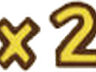
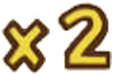
上級能力に見出しとアイコンを付け、記号表を揃える
- 上級ゲームのバッジを、能力名を主・(上級) を従とした見出しに変更し、
  右端に上級能力のアイコンを置いた（11種＋代官・獣を従える）
- 上級アイコン11点は Dized の記号画像から用意。ポーンの職能記号
  （農民=羊 / 錬金術師=歯車 / 商人=眼鏡 / 騎士=斧 / 貴族=王冠 / 修道士=十字）と
  費用記号から対応を確定した
- リファレンス11章のカード記号表を §8.5 と同じ1行1記号の形に
- ×2 の記号が共通キャンバスからはみ出して切れていたのを修正
- §9 の冒頭に11アクションへの目次リンクを追加

あわせて見つけた不具合:
- 空行をはさんだ隣り合う引用が1つに融合していた（「注」と「神速」など3箇所）
- 「地形の整備」「獣を従える」の見出しが二重になっていた
- 生HTMLの許可タグに nav がなかった

diff --git a/scripts/site_assets/site.css b/scripts/site_assets/site.css
@@ -173,11 +173,11 @@ tbody tr:hover td{background:color-mix(in srgb,var(--gold) 5%,transparent)}
 .callout p{margin:.4em 0}
 .callout .tablewrap{margin:.6em 0}
 .callout.adv{border-left-color:var(--gold)}
-.callout.adv::before{
-  content:"上級ゲーム";display:inline-block;margin-bottom:.5em;
-  font-family:var(--sans);font-size:10.5px;letter-spacing:.12em;
-  background:var(--gold);color:#fff;padding:1px 8px;border-radius:3px;
-}
+.adv-head{display:flex;align-items:center;gap:8px;margin:0 0 .5em;flex-wrap:wrap}
+.adv-name{font-family:var(--sans);font-size:15px;font-weight:700;color:var(--gold)}
+.adv-tag{font-family:var(--sans);font-size:11px;color:var(--ink-3);letter-spacing:.06em}
+.adv-en{font-family:var(--sans);font-size:11.5px;color:var(--ink-3);font-style:italic}
+.adv-ic{margin-left:auto;height:38px;width:auto;max-width:130px;border:0;background:none}
 .callout.trivia{border-left-color:#8fa07d}
 
 /* ---------- figures ---------- */
@@ -285,6 +285,22 @@ tbody tr:hover td{background:color-mix(in srgb,var(--gold) 5%,transparent)}
 .blk-steps>.cell strong{display:block;font-family:var(--sans);font-size:14.5px;margin-bottom:1px}
 .blk-steps>.cell p{margin:0}
 .blk-steps>.cell p+p{margin-top:.3em;color:var(--ink-2)}
+
+/* ---------- アクションの目次リンク（::: 章の先頭） ---------- */
+.actionnav{display:flex;flex-wrap:wrap;gap:6px;margin:1em 0 1.8em}
+.actionnav a{
+  display:inline-flex;align-items:center;gap:6px;
+  padding:5px 11px 5px 7px;border:1px solid var(--line);border-radius:999px;
+  background:var(--card);font-family:var(--sans);font-size:13px;
+  color:var(--ink);text-decoration:none;
+}
+.actionnav a:hover{border-color:var(--gold);color:var(--gold)}
+.an-n{
+  display:inline-flex;align-items:center;justify-content:center;
+  min-width:18px;height:18px;border-radius:50%;background:var(--panel);
+  font-size:11px;font-weight:700;color:var(--ink-3);
+}
+.actionnav a:hover .an-n{background:var(--gold);color:#fff}
 
 /* ---------- 行中の小さな画像（表のセルの記号など） ---------- */
 img.ic{height:22px;width:auto;vertical-align:-6px;border:0;border-radius:0;

diff --git a/scripts/mdbook.py b/scripts/mdbook.py
@@ -26,6 +26,39 @@ def inline(s):
     s = s.replace("\x00AST\x00", "*")
     return s
 
+_ADV = re.compile(
+    r'^\s*(?:!\[[^\]]*\]\((?P<img>[^)]+)\)\s*)?'
+    r'\*\*(?P<label>[^*]+?)\*\*\s*(?:（上級ゲーム）)?\s*(?:[—–-]\s*)?')
+
+
+def adv_head(md):
+    """上級能力の引用ブロックから、先頭の能力名とアイコンを見出しへ切り出す。
+
+    「**「遠い親戚」（"Distant Kin"）（上級ゲーム）** — 本文…」のような書き方を、
+    左上に能力名、その横に控えめな (上級) と原語、右にアイコン、という形にする。
+    戻り値は (見出しを取り除いた本文, 見出しHTML)。
+    """
+    m = _ADV.match(md)
+    if not m:
+        return md, ""
+    label = m.group("label").replace("（上級ゲーム）", "").strip()
+    en = ""
+    mm = re.search(r"（\s*[\"“]?(.+?)[\"”]?\s*）\s*$", label)
+    if mm:
+        en = mm.group(1).strip()
+        label = label[:mm.start()].strip()
+    name = label.strip("「」").strip()
+    if not name:
+        return md, ""
+    parts = ['<span class="adv-name">%s</span>' % html.escape(name),
+             '<span class="adv-tag">(上級)</span>']
+    if en:
+        parts.append('<span class="adv-en">%s</span>' % html.escape(en))
+    if m.group("img"):
+        parts.append(_inline_img("", m.group("img")).replace('class="ic"', 'class="adv-ic"'))
+    return md[m.end():], '<div class="adv-head">%s</div>' % "".join(parts)
+
+
 def slug(t):
     t = re.sub(r"<[^>]+>", "", t)
     t = re.sub(r"[*`]", "", t).strip().lower()
@@ -81,22 +114,23 @@ def convert(md, heading_shift=0, collect=None):
 
         # blockquote
         if ln.lstrip().startswith(">"):
+            # 空行は引用の終わり。段落を分けたいときは「>」だけの行を置く。
+            # （空行をまたいで continue すると、隣り合う別々の引用が1つに融合してしまう）
             buf = []
-            while i < len(lines) and (lines[i].lstrip().startswith(">") or
-                                      (lines[i].strip() == "" and
-                                       i + 1 < len(lines) and lines[i + 1].lstrip().startswith(">"))):
-                if lines[i].strip() == "":
-                    buf.append("")
-                else:
-                    buf.append(re.sub(r"^\s*>\s?", "", lines[i]))
+            while i < len(lines) and lines[i].lstrip().startswith(">"):
+                buf.append(re.sub(r"^\s*>\s?", "", lines[i]))
                 i += 1
-            inner = convert("\n".join(buf), heading_shift)
             cls = "callout"
             joined = "\n".join(buf)
+            head = ""
             if re.search(r"（上級ゲーム）|（Reeves）|上級ゲーム", joined):
                 cls = "callout adv"
-                # 見出しバッジで示すので本文中の「（上級ゲーム）」は削る
+                joined, head = adv_head(joined)
+            inner = convert(joined, heading_shift)
+            if cls == "callout adv":
+                # 見出しに出すので本文中の「（上級ゲーム）」は削る
                 inner = inner.replace("（上級ゲーム）", "")
+                inner = head + inner
             elif re.search(r"^\s*豆知識", joined):
                 cls = "callout trivia"
             elif re.search(r"\*\*注:|\*\*重要:|\*\*ヒント:|\*\*表に関する注:", joined):
@@ -162,7 +196,7 @@ def convert(md, heading_shift=0, collect=None):
             continue
 
         # 生HTMLブロック（行頭が < のブロック要素）
-        m = re.match(r"^<(div|section|figure|table|details|aside|svg|dl|blockquote|p|pre|ul|ol|h[1-6])\b", ln)
+        m = re.match(r"^<(div|section|nav|figure|table|details|aside|svg|dl|blockquote|p|pre|ul|ol|h[1-6])\b", ln)
         if m:
             tag = m.group(1)
             buf = [ln]; i += 1
@@ -302,12 +336,13 @@ tbody tr:nth-child(even) td{background:#fbf8f1}
 }
 .callout p{margin:.3em 0}
 .callout.adv{background:var(--adv);border-left-color:var(--gold)}
-.callout.adv::before{
-  content:"上級ゲーム"; display:inline-block; margin:0 0 .35em;
-  font-family:"Hiragino Sans","Yu Gothic",sans-serif; font-size:7.6pt;
-  letter-spacing:.12em; color:#fff; background:var(--gold);
-  padding:.12em .6em; border-radius:2px;
-}
+.adv-head{display:flex;align-items:center;gap:.5em;margin:0 0 .35em;flex-wrap:wrap}
+.adv-name{font-family:"Hiragino Sans","Yu Gothic",sans-serif;font-size:1.04em;
+  font-weight:700;color:var(--gold)}
+.adv-tag{font-family:"Hiragino Sans","Yu Gothic",sans-serif;font-size:.72em;color:var(--ink-soft)}
+.adv-en{font-family:"Hiragino Sans","Yu Gothic",sans-serif;font-size:.74em;
+  color:var(--ink-soft);font-style:italic}
+.adv-ic{margin-left:auto;height:9mm;width:auto;border:0;background:none}
 .callout.trivia{background:var(--trivia);border-left-color:#8fa07d;font-style:normal}
 .callout table{font-size:8.9pt}
 .callout .tablewrap{margin:.5em 0}
@@ -472,6 +507,20 @@ nav.toc a:hover{border-bottom:1px dotted #a99570}
 }
 .blk-steps>.cell strong{display:block;font-family:"Hiragino Sans",sans-serif;font-size:1.02em}
 .blk-steps>.cell p{margin:0}
+
+/* ---- アクションの目次リンク ---- */
+.actionnav{display:flex;flex-wrap:wrap;gap:.3em;margin:.7em 0 1.2em}
+.actionnav a{
+  display:inline-flex;align-items:center;gap:.35em;
+  padding:.15em .6em .15em .35em;border:1px solid var(--line-soft);border-radius:999px;
+  background:var(--parch);font-family:"Hiragino Sans",sans-serif;font-size:.8em;
+  color:var(--ink);text-decoration:none;
+}
+.an-n{
+  display:inline-flex;align-items:center;justify-content:center;
+  min-width:1.25em;height:1.25em;border-radius:50%;background:var(--line-soft);
+  font-size:.78em;font-weight:700;color:var(--ink-soft);
+}
 
 /* ---- 行中の小さな画像（表のセルの記号など） ---- */
 img.ic{height:16pt;width:auto;vertical-align:-.35em;border:0;background:none;box-shadow:none}

diff --git a/docs/feudum-rulebook-ja.md b/docs/feudum-rulebook-ja.md
@@ -428,6 +428,20 @@ Feudum の目的は、**「この地でもっとも崇敬される者」**にな
 
 ここで説明する11枚のアクションカードから選びます。
 
+<nav class="actionnav" aria-label="アクションの一覧">
+<a href="#91-移住アクション-p-8"><span class="an-n">1</span>移住</a>
+<a href="#92-移動アクション-p-8"><span class="an-n">2</span>移動</a>
+<a href="#93-影響アクション-p-9"><span class="an-n">3</span>影響</a>
+<a href="#94-改善アクション-p-10"><span class="an-n">4</span>改善</a>
+<a href="#95-探索アクション-p-11"><span class="an-n">5</span>探索</a>
+<a href="#96-収穫アクション-p-12"><span class="an-n">6</span>収穫</a>
+<a href="#97-徴税アクション-p-12"><span class="an-n">7</span>徴税</a>
+<a href="#98-征服アクション-p-13"><span class="an-n">8</span>征服</a>
+<a href="#99-防御アクション-p-14"><span class="an-n">9</span>防御</a>
+<a href="#910-反復アクション-p-14"><span class="an-n">10</span>反復</a>
+<a href="#911-ギルドアクション-p-15"><span class="an-n">11</span>ギルド</a>
+</nav>
+
 ### 9.1 移住アクション *(p. 8)*
 
 ![6人のポーンキャラクター|half](figures/fig-pawns.jpg)
@@ -441,7 +455,7 @@ Feudum の目的は、**「この地でもっとも崇敬される者」**にな
 
 **6人のポーンキャラクター:** 農民、錬金術師、商人、騎士、貴族、修道士。
 
-> **「遠い親戚」（"Distant Kin"）（上級ゲーム）** — 盤上に**錬金術師**のポーンが既にある場合、代わりに新しいポーンを**6つの開始拠点のいずれか**へ移住させることができます（そこに自分のポーンや影響マーカーがなくてもかまいません）。
+> ![](figures/adv-migrate.png) **「遠い親戚」（"Distant Kin"）（上級ゲーム）** — 盤上に**錬金術師**のポーンが既にある場合、代わりに新しいポーンを**6つの開始拠点のいずれか**へ移住させることができます（そこに自分のポーンや影響マーカーがなくてもかまいません）。
 
 ### 9.2 移動アクション *(p. 8)*
 
@@ -481,7 +495,7 @@ Feudum の目的は、**「この地でもっとも崇敬される者」**にな
 
 > **注:** 移動アクションが成功したとみなされるには、ポーンが少なくとも1スペース移動しなければなりません。
 
-> **「神速」（"Godspeed"）（上級ゲーム）** — 盤上に**修道士**のポーンがある場合、そのポーンは通常の移動アクションの終わりに**+1スペース**移動できます。その修道士のポーンは、通常の移動アクションの一部である必要はありません。修道士が複数いる場合は、この能力を行う1つを選びます。
+> ![](figures/adv-move.png) **「神速」（"Godspeed"）（上級ゲーム）** — 盤上に**修道士**のポーンがある場合、そのポーンは通常の移動アクションの終わりに**+1スペース**移動できます。その修道士のポーンは、通常の移動アクションの一部である必要はありません。修道士が複数いる場合は、この能力を行う1つを選びます。
 
 ### 9.3 影響アクション *(p. 9)*
 
@@ -503,7 +517,7 @@ Feudum の目的は、**「この地でもっとも崇敬される者」**にな
 
 自分が支配する拠点は、ギルド地位を高めることがあり、**活動地域**による崇敬点をもたらします（→ 21 ページ「ステップ4」）。
 
-> **「金は影響力」（"Money is Influence"）（上級ゲーム）** — **商人**のポーンを使って、対戦相手の**単独の**マーカーが支配する拠点に影響を及ぼす場合、共通供給へ**1シリング**を支払い、相手のマーカーを農奴の位置へ移して自分のマーカーを上に置き支配者になることができます（影響が単に同数であるだけでも可）。商人が複数いる場合は、この能力を行う1つを選びます。
+> ![](figures/adv-influence.png) **「金は影響力」（"Money is Influence"）（上級ゲーム）** — **商人**のポーンを使って、対戦相手の**単独の**マーカーが支配する拠点に影響を及ぼす場合、共通供給へ**1シリング**を支払い、相手のマーカーを農奴の位置へ移して自分のマーカーを上に置き支配者になることができます（影響が単に同数であるだけでも可）。商人が複数いる場合は、この能力を行う1つを選びます。
 
 ### 9.4 改善アクション *(p. 10)*
 
@@ -575,7 +589,7 @@ Feudum の目的は、**「この地でもっとも崇敬される者」**にな
 
 ![盤上に敷かれた地形タイルと、そこに貯まった資源|wide](figures/landscapes-play.jpg)
 
-> **「地形の整備」（"Tend Landscape"）> **「地形の整備」（"Tend Landscape"）（上級ゲーム）** — **木材**を麻袋に支払えば、自分が**農奴**である任意の拠点の横に、自分が得た地形1枚を置き、**2 vp**を得ることができます。1つの拠点に置ける地形は1つだけです。地形は置き換えられません。
+> ![](figures/adv-improve.png) **「地形の整備」（"Tend Landscape"）（上級ゲーム）** — **木材**を麻袋に支払えば、自分が**農奴**である任意の拠点の横に、自分が得た地形1枚を置き、**2 vp**を得ることができます。1つの拠点に置ける地形は1つだけです。地形は置き換えられません。
 > **重要:** これは通常の改善アクションの**代わりに**プレイします。
 >
 > 地形を置いた直後、および以後の**各時代の始まりに**（得点計算の後）、**指定された資源3つ**を取ってそのタイルに加えます。そのたびに、蓄積した資源すべてを回収するか、資源をさらに増やし続けるかを選べます。資源を回収すると決めたときは、**その拠点の支配者に資源1つを支払わなければなりません**。
@@ -605,7 +619,7 @@ Feudum の目的は、**「この地でもっとも崇敬される者」**にな
 
 王命状カードは同時に**3枚**より多く持つことはできませんが、使わないカードはいつでも山札の一番下に捨てることができます（→ 24 ページ「王命状」）。
 
-> **「鋤と剣」（"Shovels & Swords"）（上級ゲーム）** — **鉄**を麻袋に支払えば、**さらに2枚引いて**もう1枚を手元に残せます！
+> ![](figures/adv-explore.png) **「鋤と剣」（"Shovels & Swords"）（上級ゲーム）** — **鉄**を麻袋に支払えば、**さらに2枚引いて**もう1枚を手元に残せます！
 > **注:** これは通常の探索アクションを行った**後**に行います。
 
 > 豆知識: 「butts（弓術場）」とは、中世に弓術の訓練に使われた野原のことだ。
@@ -636,13 +650,13 @@ Feudum の目的は、**「この地でもっとも崇敬される者」**にな
 
 ロザリオ玉は、それを所持しているかぎり、総収穫の産出量を**+2〜+5**個の追加物資分だけ増やします。ただし、割り当てられた**恩恵**を受け取ると（かなり不信心な行いです）、その玉は直ちに**裏返って王の印になります**（将来の収穫ボーナスを手放す代わりに、王の印を得ます）。
 
-> **「収穫の吟味」（"Inspect the Harvest"）（上級ゲーム）** — **農民**ポーンが場にある場合、総収穫を無作為に引いた後、恩恵を**公開して選ぶ**ことができます。
+> ![](figures/adv-harvest.png) **「収穫の吟味」（"Inspect the Harvest"）（上級ゲーム）** — **農民**ポーンが場にある場合、総収穫を無作為に引いた後、恩恵を**公開して選ぶ**ことができます。
 
 ### 9.7 徴税アクション *(p. 12)*
 
 **町**を支配している場合、徴税アクションをプレイして**2シリング**を得ることができます。支配している追加の町および／またはフューダム1つにつき、**+1シリング**を加えます。
 
-> **「増援」（"Reinforcements"）（上級ゲーム）** — 盤上に**騎士**ポーンがある場合、共通供給から**影響マーカー1個**も得ることができます。共通供給が尽きている場合は騎士ギルドから得ます。騎士が複数いても、得られる影響マーカーは1個だけです。
+> ![](figures/adv-tax.png) **「増援」（"Reinforcements"）（上級ゲーム）** — 盤上に**騎士**ポーンがある場合、共通供給から**影響マーカー1個**も得ることができます。共通供給が尽きている場合は騎士ギルドから得ます。騎士が複数いても、得られる影響マーカーは1個だけです。
 
 ### 9.8 征服アクション *(p. 13)*
 
@@ -686,7 +700,7 @@ Feudum の目的は、**「この地でもっとも崇敬される者」**にな
 
 **例:** 青のプレイヤーは緑のフューダムを攻撃します。そのフューダムの防御値は **+3** です（フューダムで+2、防御する臣民で+1）。青の攻撃値は+2（ポーン1つにつき+1）です。攻撃を自分の騎士が率いているため、青は硝石2個をプレイして攻撃を **+4** にします。緑は防御アクションをプレイしなかったので、フューダムは破壊され、砦に置き換えられます。青は 4 vp を得て、プレイヤーディスク1枚を軍役トラックに置きます。
 
-> **「民を飢えさせる」（"Starve the People"）（上級ゲーム）** — 相手の**臣民または農奴**がいる拠点の横に自分の**貴族**ポーンがいる場合、そのうち1つを征服し、持ち主に返すことができます。
+> ![](figures/adv-conquer.png) **「民を飢えさせる」（"Starve the People"）（上級ゲーム）** — 相手の**臣民または農奴**がいる拠点の横に自分の**貴族**ポーンがいる場合、そのうち1つを征服し、持ち主に返すことができます。
 > **重要:** これは通常の征服アクションの**代わりに**プレイします。崇敬点は**得られません**（かなり不名誉な行いなので）が、自分のプレイヤーディスク1枚を軍役トラックへ動かすことはできます。
 > **重要:** 「民を飢えさせる」アクションが成功した後、鶏の上にある**施しをすべて**（ロザリオ玉のディスク）取り除き、共通供給へ戻します。
 
@@ -698,13 +712,13 @@ Feudum の目的は、**「この地でもっとも崇敬される者」**にな
 
 **例:** 青のプレイヤーは、貴族と修道士と硝石を使って赤の商人を征服しようと決めます（青の攻撃値は+3、対する赤の防御値は+2）。しかし赤は青のアクションを見越して防御アクションをプレイしていたため、（手番外で）そのカードを表にし、征服の試みを阻みます。
 
-> **「王の免責」（"Royal Immunity"）（上級ゲーム）** — **食料1個**を麻袋に支払えば、このアクションを**手番外で**プレイして、自分に対する貴族の**「民を飢えさせる」**アクションを無効化できます。さらに、共通供給から**王の印**1個を自分の臣民または農奴の下に置き、以後の「民を飢えさせる」攻撃に対する**王の免責**を示します！ この王の印はいつでも取り除いて使えますが、その臣民または農奴は保護されていない状態に戻ります。
+> ![](figures/adv-defend.png) **「王の免責」（"Royal Immunity"）（上級ゲーム）** — **食料1個**を麻袋に支払えば、このアクションを**手番外で**プレイして、自分に対する貴族の**「民を飢えさせる」**アクションを無効化できます。さらに、共通供給から**王の印**1個を自分の臣民または農奴の下に置き、以後の「民を飢えさせる」攻撃に対する**王の免責**を示します！ この王の印はいつでも取り除いて使えますが、その臣民または農奴は保護されていない状態に戻ります。
 
 ### 9.10 反復アクション *(p. 14)*
 
 反復アクションによって、**そのラウンド中にすでにプレイしたアクションカード**を、上部に **(x2) 記号**があるかぎり、もう一度実行できます。
 
-> **「デジャヴ」（"Déjà vu"）（上級ゲーム）** — **硝石1個**を麻袋に支払えば、(x2) 記号の**ない**カードを、そのラウンド中に2度目として実行できます。例: 移住アクションを同じラウンドに2度目としてプレイし、2つ目のポーンを盤上に登場させることができます。
+> ![](figures/adv-repeat.png) **「デジャヴ」（"Déjà vu"）（上級ゲーム）** — **硝石1個**を麻袋に支払えば、(x2) 記号の**ない**カードを、そのラウンド中に2度目として実行できます。例: 移住アクションを同じラウンドに2度目としてプレイし、2つ目のポーンを盤上に登場させることができます。
 > **注:** **征服**アクションと**防御**アクションは、(x2) 記号が示すとおり、1つのラウンドで**決して**2度プレイできません。
 
 ### 9.11 ギルドアクション *(p. 15)*
@@ -764,7 +778,7 @@ Feudum の目的は、**「この地でもっとも崇敬される者」**にな
 
 ギルドマスターは（**自分の右隣**のギルドへ）**自分のギルドから資源を押し出し**、結果に応じて **4、5、または6 vp** を得ます（→ 17 ページ「6つのギルド」）。
 
-> **「宴」（"Feast"）（上級ゲーム）** — **ワイン樽の硫黄1個**を麻袋に支払えば、自分のポーンが横にいるポーンまたはフューダムの持ち主のために宴を催せます。**その持ち主の**押し出し／引き込み機能を代わりに行い、**その持ち主の通常点 +3 vp** を得ます。押し出し機能が教会金庫または農民の財布の分配を引き起こした場合、**その持ち主の分**のシリングを受け取ります（→ 17 ページ「6つのギルド」）。
+> ![](figures/adv-guild.png) **「宴」（"Feast"）（上級ゲーム）** — **ワイン樽の硫黄1個**を麻袋に支払えば、自分のポーンが横にいるポーンまたはフューダムの持ち主のために宴を催せます。**その持ち主の**押し出し／引き込み機能を代わりに行い、**その持ち主の通常点 +3 vp** を得ます。押し出し機能が教会金庫または農民の財布の分配を引き起こした場合、**その持ち主の分**のシリングを受け取ります（→ 17 ページ「6つのギルド」）。
 
 ---
 ## 10. ギルド加入 *(p. 16)*
@@ -913,7 +927,7 @@ Feudum の目的は、**「この地でもっとも崇敬される者」**にな
 
 ![盤上に配置されたモンスター|half](figures/monster-play.jpg)
 
-> **「獣を従える」（"Tame the Beast"）> **「獣を従える」（"Tame the Beast"）**（上級ゲーム） — **3個以上**の影響マーカーの列を購入した後、そのうち**3個**を返すことで**モンスター**1体を操ることができます。（2個を共通供給に返し、3個目のマーカーは所有を示すために対応するモンスターアイコンの上に置きます。）その後、直ちにそのモンスターを、自分の影響マーカーまたはポーンがある任意の拠点に配置します。（**シーサーペント**は海または河川に接する港に置かなければなりません。）
+> **「獣を従える」（"Tame the Beast"）**（上級ゲーム） — **3個以上**の影響マーカーの列を購入した後、そのうち**3個**を返すことで**モンスター**1体を操ることができます。（2個を共通供給に返し、3個目のマーカーは所有を示すために対応するモンスターアイコンの上に置きます。）その後、直ちにそのモンスターを、自分の影響マーカーまたはポーンがある任意の拠点に配置します。（**シーサーペント**は海または河川に接する港に置かなければなりません。）
 >
 > **シーサーペント**は**帆船と潜水艇**のルートに限られます。**ベヒモス**は**道と飛行機械**のルートに限られます。いずれかのモンスターが撃破された場合、再利用のためそれを騎士ギルドに戻し、自分の影響マーカーを回収します。
 >

diff --git a/docs/feudum-reference-ja.md b/docs/feudum-reference-ja.md
@@ -658,17 +658,13 @@
 
 # 11. カード記号
 
-![カード上の記号。左から ×2（反復可）・×2に赤い打ち消し（反復不可）・カードに赤い打ち消し（最後に出せない）・上下の三角（いずれか一方）|wide](figures/card-symbols.jpg)
-
-| 記号 | 意味 |
-| --- | --- |
-| **×2** | 反復アクションで、このラウンドに再度プレイできる |
-| **×2 に赤い打ち消し** | 反復アクションを使っても、このラウンドに再度プレイできない |
-| **カードに赤い打ち消し** | このラウンドで最後に公開するカードにはできない |
-| **上下の三角**（△▽） | 通常アクション**または**特殊能力のどちらかを行う。両方は不可 |
-| vp の記号 | このアクションは崇敬点を得る |
-
-上の4種は実物のカードで確認できたものです。vp の記号（崇敬点）だけは図柄を確認できていません。
+| 記号 | 呼び方 | 意味 |
+| --- | --- | --- |
+| ![×2](figures/sym-repeat.png) | ×2 | 反復アクションで、このラウンドに再度プレイできる |
+| ![×2に赤い打ち消し](figures/sym-no-repeat.png) | ×2 に赤い打ち消し | 反復アクションを使っても、このラウンドに再度プレイできない |
+| ![カードに赤い打ち消し](figures/sym-not-last.png) | カードに赤い打ち消し | このラウンドで最後に公開するカードにはできない |
+| ![上下の三角](figures/sym-either-or.png) | 上下の三角（△▽） | 通常アクション**または**特殊能力のどちらかを行う。両方は不可 |
+| — | vp の記号 | このアクションは崇敬点を得る。**図柄は未確認です。** |
 
 ---
 
